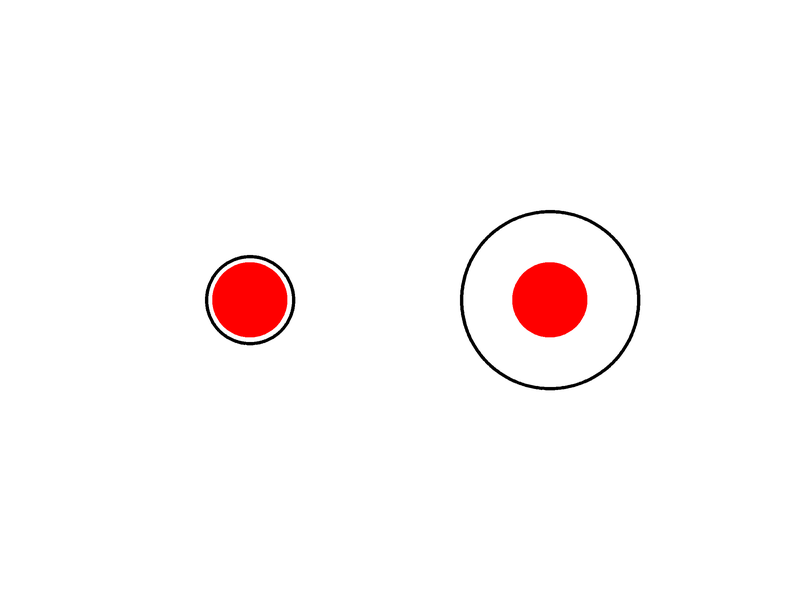
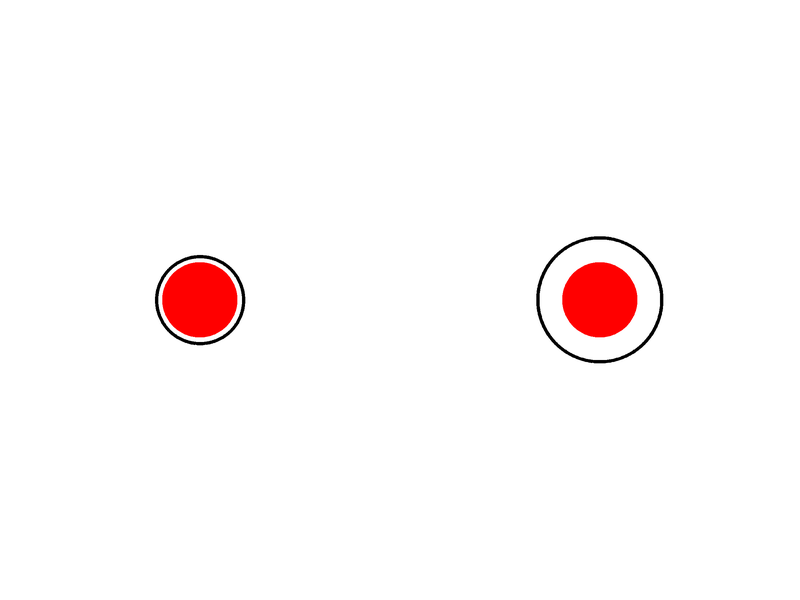
add ebbinghaus illusion

diff --git a/pyllusion/illusion/ebbinghaus.py b/pyllusion/illusion/ebbinghaus.py
@@ -1,46 +1,141 @@
 import numpy as np
 import PIL.Image, PIL.ImageDraw, PIL.ImageFilter, PIL.ImageFont, PIL.ImageOps
-from .delboeuf import _delboeuf_parameters_sizeinner
+from .delboeuf import _delboeuf_parameters_sizeinner, _delboeuf_parameters_sizeouter
+from ..image import image_circle
 
 
-def ebbinghaus_parameters(difference=0, size_min=0.25):
-    parameters = _delboeuf_parameters_sizeinner(difference=difference, size_min=size_min)
-    inner_size_left = parameters["Size_Inner_Left"]
-    inner_size_right = parameters["Size_Inner_Right"]
+def ebbinghaus_image(parameters=None, width=800, height=600, background="white", **kwargs):
+    """
+    Examples
+    ---------
+    >>> import pyllusion as ill
+    >>>
+    >>> parameters = ill.ebbinghaus_parameters(difference=2, illusion_strength=1)
+    >>> ill.ebbinghaus_image(parameters)
+    """
+    # Create white canvas and get drawing context
+    if parameters is None:
+        parameters = ebbinghaus_parameters(**kwargs)
 
-    return parameters
+    # Background
+    image  = PIL.Image.new('RGB', (width, height), color=background)
 
-
-# params = ebbinghaus_parameters(difference=3)
-
-
-# width=800; height=600; background="white"
-# image  = PIL.Image.new('RGBA', (width, height), color = background)
-
-# image = _ebbinghaus_drawpart(image, x=0, y=0, size_inner=0.25, size_outer=0.10, color_inner="red", color_outer="black")
-
-# image
-
-
-
-def _ebbinghaus_drawpart(image, x=0, y=0, size_inner=0.25, size_outer=0.3, color_inner="red", color_outer="black", n="auto"):
-
-    # Draw inner circle
-    image = ill.image_circle(image=image, size=size_inner, x=x, y=y, color=color_inner)
-
-    # Get outer circles positions
-    outer_x, outer_y = _ebbinghaus_parameters_outercircles(image, x=x, y=y, size_inner=size_inner, size_outer=size_outer, n=n)
-    n = len(outer_x)
-    for i in range(n):
-        image = ill.image_circle(image=image, size=size_outer, x=outer_x[i], y=outer_y[i], color=color_outer)
+    # Outer circles
+    for side in ["Left", "Right"]:
+        image = _ebbinghaus_image_draw(image,
+                                    parameters,
+                                    side=side,
+                                    color_inner="red",
+                                    color_outer="black")
 
     return image
 
 
-def _ebbinghaus_parameters_outercircles(image, x=0, y=0, size_inner=0.25, size_outer=0.3, n="auto"):
+
+
+
+
+def _ebbinghaus_image_draw(image, p, side="Left", color_inner="red", color_outer="black"):
+
+    # Draw inner circle
+    image = image_circle(image=image, size=p["Size_Inner_" + side], x=p["Position_" + side], y=0, color=color_inner)
+
     # Get width/height ratio to have equidistant circles
     ratio = image.size[0] / image.size[1]
 
+    # Adjust for non-squared screen
+    x = p["Position_Outer_x_" + side] / ratio
+    x = x + (p["Position_" + side] - np.mean(x))
+
+    # Plot each outer circles
+    for i in range(len(p["Position_Outer_x_" + side])):
+        image = image_circle(image=image, size=p["Size_Outer_" + side], x=x[i], y=p["Position_Outer_y_" + side][i], color=color_outer)
+
+    return image
+
+
+
+# ------------------------------------------
+# Parameters
+# ------------------------------------------
+
+def ebbinghaus_parameters(difference=0, size_min=0.25, illusion_strength=0, distance=1, distance_auto=False):
+    # Size inner circles
+    parameters = _delboeuf_parameters_sizeinner(difference=difference, size_min=size_min)
+    inner_size_left = parameters["Size_Inner_Left"]
+    inner_size_right = parameters["Size_Inner_Right"]
+
+    # Position
+    position_left = -0.5
+    position_right = 0.5
+
+    # Base size outer circles
+    outer_size_left = size_min
+    outer_size_right = size_min
+
+    # Actual outer size based on illusion
+    outer_size_left, outer_size_right = _delboeuf_parameters_sizeouter(outer_size_left,
+                                                                       outer_size_right,
+                                                                       difference=difference,
+                                                                       illusion_strength=illusion_strength,
+                                                                       scale_down=True)
+
+    # Location outer circles
+    l_outer_x, l_outer_y, l_distance_edges = _ebbinghaus_parameters_outercircles(x=position_left,
+                                                            y=0,
+                                                            size_inner=inner_size_left,
+                                                            size_outer=outer_size_left,
+                                                            n="auto")
+    r_outer_x, r_outer_y, r_distance_edges = _ebbinghaus_parameters_outercircles(x=position_right,
+                                                            y=0,
+                                                            size_inner=inner_size_right,
+                                                            size_outer=outer_size_right,
+                                                            n="auto")
+
+    # Get location and distances
+    if distance_auto is False:
+        distance_centers = distance
+        position_left, position_right = -(distance_centers / 2), (distance_centers / 2)
+        distance_edges_inner = distance_centers - (inner_size_left/2 + inner_size_right/2)
+        distance_edges_outer = distance_centers - l_distance_edges - (outer_size_left/2) - r_distance_edges - (outer_size_right/2)
+
+    else:
+        distance_edges_outer = distance
+        distance_centers = distance_edges_outer + l_distance_edges + (outer_size_left/2) + r_distance_edges + (outer_size_right/2)
+        distance_edges_inner = distance_centers - (outer_size_left/2 + outer_size_right/2)
+        position_left, position_right = -(distance_centers / 2), (distance_centers / 2)
+
+    parameters.update({
+        "Illusion": "Ebbinhaus",
+        "Illusion_Strength": illusion_strength,
+        "Illusion_Type": "Congruent" if illusion_strength > 0 else "Incongruent",
+
+        "Size_Outer_Left": outer_size_left,
+        "Size_Outer_Right": outer_size_right,
+
+        "Distance_Centers": distance_centers,
+        "Distance_Edges_Inner": distance_edges_inner,
+        "Distance_Edges_Outer": distance_edges_outer,
+
+        "Size_Inner_Smaller": np.min([inner_size_left, inner_size_right]),
+        "Size_Inner_Larger": np.max([inner_size_left, inner_size_right]),
+        "Size_Outer_Smaller": np.min([outer_size_left, outer_size_right]),
+        "Size_Outer_Larger": np.max([outer_size_left, outer_size_right]),
+
+        "Position_Outer_x_Left": l_outer_x,
+        "Position_Outer_y_Left": l_outer_y,
+        "Position_Outer_x_Right": r_outer_x,
+        "Position_Outer_y_Right": r_outer_y,
+
+        "Position_Left": position_left,
+        "Position_Right": position_right
+        })
+
+    return parameters
+
+
+
+def _ebbinghaus_parameters_outercircles(x=0, y=0, size_inner=0.25, size_outer=0.3, n="auto"):
     # Find distance between center of inner circle and centers of outer circles
     distance = (size_inner / 2) + (size_outer / 2) + 0.01
 
@@ -52,9 +147,6 @@ def _ebbinghaus_parameters_outercircles(image, x=0, y=0, size_inner=0.25, size_o
     # Get position of outer circles
     angle = np.deg2rad(np.linspace(0, 360, num=n, endpoint=False))
     circle_x = x + (np.cos(angle) * distance)
-    circle_x = circle_x / ratio  # Adjust for non-squared screen
     circle_y = y + (np.sin(angle) * distance)
 
-    return circle_x, circle_y
-
-
+    return circle_x, circle_y, distance

diff --git a/pyllusion/illusion/delboeuf.py b/pyllusion/illusion/delboeuf.py
@@ -8,7 +8,7 @@ def delboeuf_image(parameters=None, width=800, height=600, outline=10, backgroun
     ---------
     >>> import pyllusion as ill
     >>>
-    >>> parameters = ill.delboeuf_parameters(difference=2, illusion_strength=0)
+    >>> parameters = ill.delboeuf_parameters(difference=2, illusion_strength=1)
     >>> ill.delboeuf_image(parameters)
     """
     # Create white canvas and get drawing context
@@ -46,7 +46,7 @@ def delboeuf_image(parameters=None, width=800, height=600, outline=10, backgroun
 # Parameters
 # ------------------------------------------
 
-def delboeuf_parameters(difference=0, size_min=0.25, illusion_strength=0, distance=0.5, distance_auto=True):
+def delboeuf_parameters(difference=0, size_min=0.25, illusion_strength=0, distance=1, distance_auto=False):
     """Compute Parameters for Delboeuf Illusion.
 
     Parameters
@@ -69,55 +69,39 @@ def delboeuf_parameters(difference=0, size_min=0.25, illusion_strength=0, distan
     >>>
     >>> parameters = ill.delboeuf_parameters()
     """
+    # Size inner circles
     parameters = _delboeuf_parameters_sizeinner(difference=difference, size_min=size_min)
     inner_size_left = parameters["Size_Inner_Left"]
     inner_size_right = parameters["Size_Inner_Right"]
 
+    # Base size outer circles
     outer_size_left = inner_size_left + (0.2 * size_min)
     outer_size_right = inner_size_right + (0.2 * size_min)
 
+    # Actual outer size based on illusion
+    outer_size_left, outer_size_right = _delboeuf_parameters_sizeouter(outer_size_left,
+                                                                       outer_size_right,
+                                                                       difference=difference,
+                                                                       illusion_strength=illusion_strength)
 
-    if difference > 0: # if right is smaller
-        if illusion_strength > 0:
-            illusion_type = "Incongruent"
-            outer_size_left = outer_size_left + outer_size_left * np.abs(illusion_strength)
-        else:
-            illusion_type = "Congruent"
-            outer_size_right = outer_size_right + outer_size_right * np.abs(illusion_strength)
-
-    else:
-        if illusion_strength > 0:
-            illusion_type = "Incongruent"
-            outer_size_right = outer_size_right + outer_size_right * np.abs(illusion_strength)
-        else:
-            illusion_type = "Congruent"
-            outer_size_left = outer_size_left + outer_size_left * np.abs(illusion_strength)
-
-
-    inner_size_smaller = min([inner_size_left, inner_size_right])
-    inner_size_larger = max([inner_size_left, inner_size_right])
-    outer_size_smaller = min([outer_size_left, outer_size_right])
-    outer_size_larger = max([outer_size_left, outer_size_right])
-
+    # Get location and distances
     if distance_auto is False:
         distance_centers = distance
-        position_left = 0 - distance_centers/2
-        position_right = 0 + distance_centers/2
+        position_left, position_right = -(distance_centers / 2), (distance_centers / 2)
         distance_edges_inner = distance_centers - (inner_size_left/2 + inner_size_right/2)
         distance_edges_outer = distance_centers - (outer_size_left/2 + outer_size_right/2)
     else:
         distance_edges_outer = distance
         distance_centers = distance_edges_outer + (inner_size_left/2 + inner_size_right/2)
         distance_edges_inner = distance_centers - (outer_size_left/2 + outer_size_right/2)
-        position_left = 0-distance_centers/2
-        position_right = 0+distance_centers/2
+        position_left, position_right = -(distance_centers / 2), (distance_centers / 2)
 
 
 
     parameters.update({
         "Illusion": "Delboeuf",
         "Illusion_Strength": illusion_strength,
-        "Illusion_Type": illusion_type,
+        "Illusion_Type": "Congruent" if illusion_strength > 0 else "Incongruent",
 
         "Size_Outer_Left": outer_size_left,
         "Size_Outer_Right": outer_size_right,
@@ -126,13 +110,13 @@ def delboeuf_parameters(difference=0, size_min=0.25, illusion_strength=0, distan
         "Distance_Edges_Inner": distance_edges_inner,
         "Distance_Edges_Outer": distance_edges_outer,
 
-        "Size_Inner_Smaller": inner_size_smaller,
-        "Size_Inner_Larger": inner_size_larger,
-        "Size_Outer_Smaller": outer_size_smaller,
-        "Size_Outer_Larger": outer_size_larger,
+        "Size_Inner_Smaller": np.min([inner_size_left, inner_size_right]),
+        "Size_Inner_Larger": np.max([inner_size_left, inner_size_right]),
+        "Size_Outer_Smaller": np.min([outer_size_left, outer_size_right]),
+        "Size_Outer_Larger": np.max([outer_size_left, outer_size_right]),
 
         "Position_Left": position_left,
-        "Position_Right": position_right,
+        "Position_Right": position_right
         })
 
     return parameters
@@ -141,6 +125,32 @@ def delboeuf_parameters(difference=0, size_min=0.25, illusion_strength=0, distan
 # ------------------------------------------
 # Utilities
 # ------------------------------------------
+
+
+def _delboeuf_parameters_sizeouter(outer_size_left, outer_size_right, illusion_strength=0, difference=0, scale_down=False):
+
+    # Actual outer size based on illusion
+    if difference > 0: # if right is smaller
+        if illusion_strength > 0:
+            outer_size_left = np.sqrt(1 + np.abs(illusion_strength)) * outer_size_left
+            if scale_down is True:
+                outer_size_right = outer_size_right / np.sqrt(1 + np.abs(illusion_strength))
+        else:
+            outer_size_right = np.sqrt(1 + np.abs(illusion_strength)) * outer_size_right
+            if scale_down is True:
+                outer_size_left = outer_size_left / np.sqrt(1 + np.abs(illusion_strength))
+
+    else:
+        if illusion_strength > 0:
+            outer_size_right = np.sqrt(1 + np.abs(illusion_strength)) * outer_size_right
+            if scale_down is True:
+                outer_size_left = outer_size_left / np.sqrt(1 + np.abs(illusion_strength))
+        else:
+            outer_size_left = np.sqrt(1 + np.abs(illusion_strength)) * outer_size_left
+            if scale_down is True:
+                outer_size_right = outer_size_right / np.sqrt(1 + np.abs(illusion_strength))
+
+    return outer_size_left, outer_size_right
 
 
 def _delboeuf_parameters_sizeinner(difference=0, size_min=0.25):

diff --git a/pyllusion/illusion/__init__.py b/pyllusion/illusion/__init__.py
@@ -3,3 +3,4 @@ Pyllusion submodule.
 """
 
 from .delboeuf import delboeuf_parameters, delboeuf_image
+from .ebbinghaus import ebbinghaus_parameters, ebbinghaus_image

diff --git a/README.md b/README.md
@@ -43,9 +43,10 @@ You can credit the package as follows:
 The [**Delboeuf
 illusion**](https://en.wikipedia.org/wiki/Delboeuf_illusion) is an
 optical illusion of relative size perception, where circles of identical
-size appear as different. The illusion was named for the Belgian
-philosopher, mathematician, experimental psychologist, hypnotist, and
-psychophysicist Joseph Remi Leopold Delboeuf, who created it in 1865.
+size appear as different because of their surrounding context. The
+illusion was named for the Belgian philosopher, mathematician,
+experimental psychologist, hypnotist, and psychophysicist Joseph Remi
+Leopold Delboeuf (1831–1896), who created it in 1865.
 
 ``` python
 import pyllusion as ill
@@ -57,9 +58,27 @@ ill.delboeuf_image(illusion_strength=1)
 
 ### Ebbinghaus Illusion
 
-  - **TO DO** *(consider helping\!)*
+The [**Ebbinghaus
+illusion**](https://en.wikipedia.org/wiki/Ebbinghaus_illusion) is an
+optical illusion of relative size perception, where circles of identical
+size appear as different because of their surrounding context. The
+illusion was named after its creator the German psychologist Hermann
+Ebbinghaus (1850–1909), though it got popularized by Edward B. Titchener
+in a 1901 textbook of experimental psychology.
+
+``` python
+import pyllusion as ill
+
+ill.ebbinghaus_image(illusion_strength=1)
+```
+
+![](docs/img/README_ebbinghaus1.png)
 
 ### Ponzo Illusion
+
+  - **TO DO** *(consider helping\!)*
+
+### Rod and Frame Illusion
 
   - **TO DO** *(consider helping\!)*
 
@@ -94,6 +113,8 @@ pattern used by providing another function (here, the `image_circles()`
 function to which we can provide additional arguments like `blackwhite`,
 the number of circles `n`, their size range and their transparency with
 `alpha`).
+
+![](docs/img/depthmask.png)
 
 ``` python
 ill.autostereogram(stimulus="docs/img/depthmask.png",
